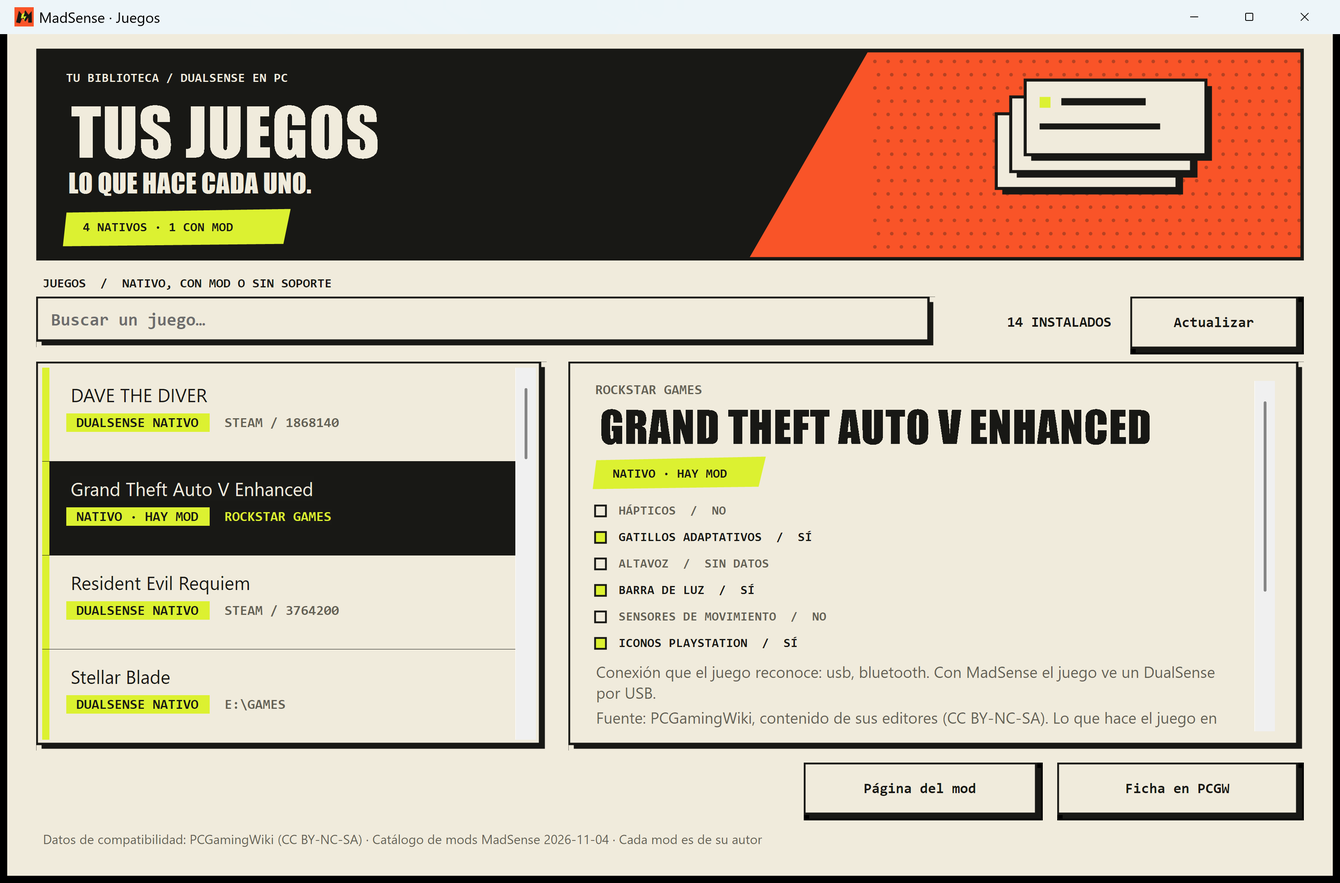
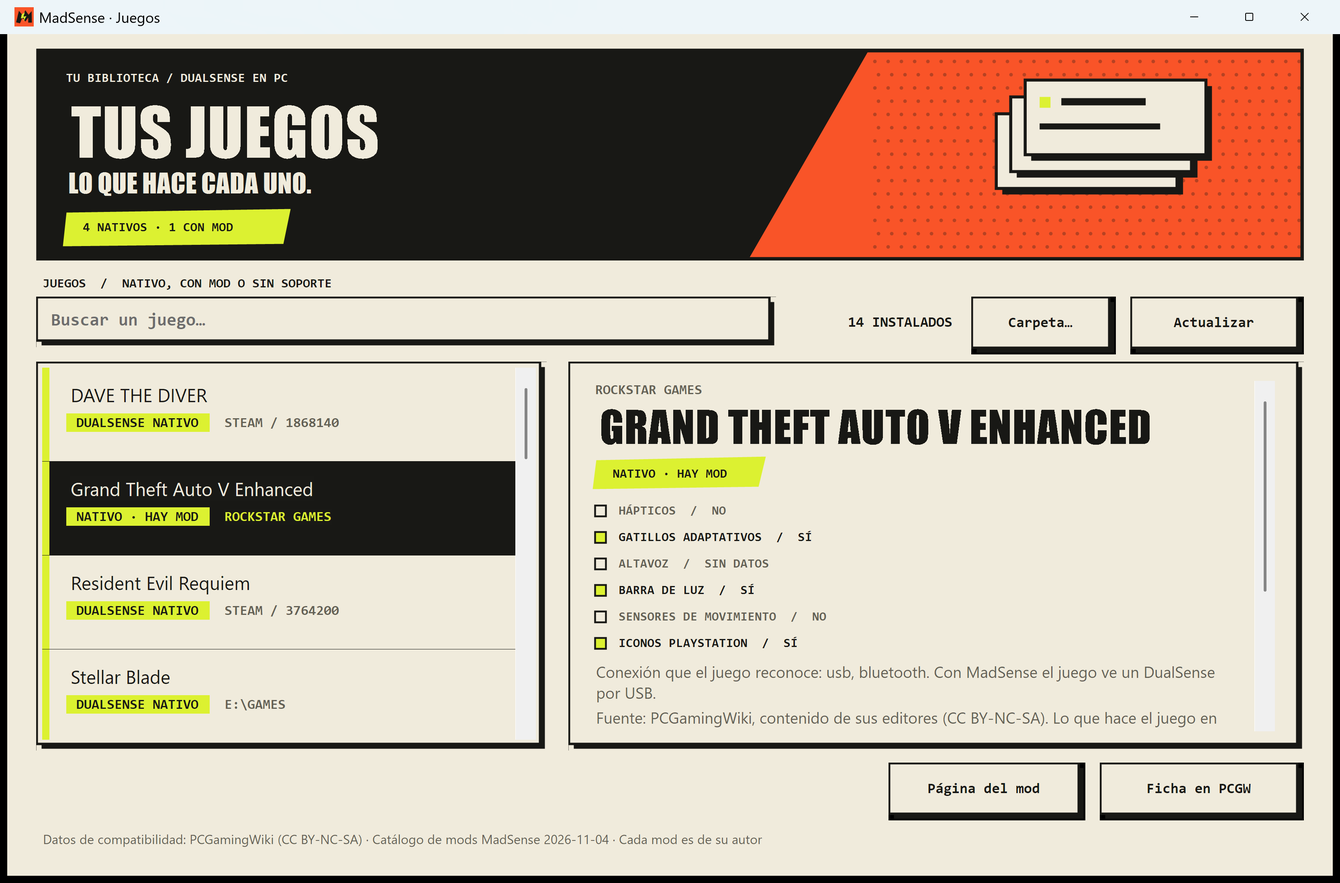
Games: folders anywhere, in three layers
Roots now cover a games folder at the root of each fixed drive and one
level below it, the profile's Games, and, since people keep games next to
the ones a launcher already put there, the parent and grandparent of every
known non-Steam game (never a drive root, Program Files or AppData).

The user can add any other folder from the games screen: a Folder… button
beside Refresh, with the same geometry, opens the picker; the folder is
kept in games-folders.json and read with every refresh, and a game from
such a folder offers Forget folder in its detail pane.

diff --git a/src/Games/GamesWindow.cs b/src/Games/GamesWindow.cs
@@ -17,7 +17,7 @@ internal sealed class GamesWindow : Form
     readonly CancellationTokenSource lifetime = new();
     readonly Dictionary<(string, float, FontStyle), Font> fonts = [];
     readonly BandPanel band = new() { Dock = DockStyle.Fill, Margin = Padding.Empty };
-    readonly MainWindow.RoundedButton refresh = new(), install = new() { Accent = true }, remove = new(), run = new(), page = new(), wiki = new();
+    readonly MainWindow.RoundedButton refresh = new(), folder = new(), install = new() { Accent = true }, remove = new(), run = new(), page = new(), wiki = new(), forget = new();
     readonly Label footer = new(), count = new(), empty = new(), section = new();
     readonly TextBox search = new();
     readonly EntryList entries = new();
@@ -25,7 +25,7 @@ internal sealed class GamesWindow : Form
     readonly Panel detailScroll = new() { Dock = DockStyle.Fill, AutoScroll = true };
     readonly FlowLayoutPanel detail = new() { Dock = DockStyle.Top, AutoSize = true, FlowDirection = FlowDirection.TopDown, WrapContents = false };
     readonly ProgressBar progress = new() { Dock = DockStyle.Fill, Visible = false, Style = ProgressBarStyle.Continuous };
-    readonly TableLayoutPanel actions = new() { Dock = DockStyle.Fill, ColumnCount = 5, RowCount = 1, Margin = Padding.Empty, Padding = new(0, 6, 0, 0) };
+    readonly TableLayoutPanel actions = new() { Dock = DockStyle.Fill, ColumnCount = 6, RowCount = 1, Margin = Padding.Empty, Padding = new(0, 6, 0, 0) };
     readonly Dictionary<string, WikiSupport?> support = new(StringComparer.Ordinal);
     readonly HashSet<string> pending = new(StringComparer.Ordinal);
     List<LibraryGame> games = [];
@@ -65,18 +65,19 @@ internal sealed class GamesWindow : Form
         // Section line, as in the main window: mono kicker with a slash.
         section.Dock = DockStyle.Fill; section.TextAlign = ContentAlignment.BottomLeft; section.ForeColor = Ink; section.Font = MakeFont("Consolas", 8, FontStyle.Bold); section.Padding = new(0, 0, 0, 5);
         root.Controls.Add(section, 0, 1);
-        // Toolbar: search field, count, refresh. Same 48 px row and button geometry as the main footer.
-        var toolbar = new TableLayoutPanel { Dock = DockStyle.Fill, ColumnCount = 3, RowCount = 1, Margin = Padding.Empty };
+        // Toolbar: search field, count, a folder of the user's own, refresh. Same 48 px row and button geometry as the main footer.
+        var toolbar = new TableLayoutPanel { Dock = DockStyle.Fill, ColumnCount = 4, RowCount = 1, Margin = Padding.Empty };
         toolbar.RowStyles.Add(new(SizeType.Percent, 100));
-        toolbar.ColumnStyles.Add(new(SizeType.Percent, 100)); toolbar.ColumnStyles.Add(new(SizeType.Absolute, 150)); toolbar.ColumnStyles.Add(new(SizeType.Absolute, 144));
+        toolbar.ColumnStyles.Add(new(SizeType.Percent, 100)); toolbar.ColumnStyles.Add(new(SizeType.Absolute, 150)); toolbar.ColumnStyles.Add(new(SizeType.Absolute, 132)); toolbar.ColumnStyles.Add(new(SizeType.Absolute, 144));
         var searchPlate = new PlatePanel { Dock = DockStyle.Fill, Margin = new(0, 0, 12, 6), Padding = new(10, 0, 10, 0) };
         search.Anchor = AnchorStyles.Left | AnchorStyles.Right; search.BackColor = Paper; search.ForeColor = Ink; search.BorderStyle = BorderStyle.None; search.Font = MakeFont("Consolas", 11, FontStyle.Bold);
         search.TextChanged += (_, _) => Populate();
         searchPlate.Controls.Add(search);
         searchPlate.Layout += (_, _) => { var area = searchPlate.DisplayRectangle; search.SetBounds(area.X, area.Y + Math.Max(0, (area.Height - search.Height) / 2), area.Width, search.Height); };
         count.Dock = DockStyle.Fill; count.TextAlign = ContentAlignment.MiddleRight; count.Font = MakeFont("Consolas", 9, FontStyle.Bold); count.Margin = new(0, 0, 12, 6);
+        folder.Dock = DockStyle.Fill; folder.Margin = new(0, 0, 12, 0); folder.Click += async (_, _) => await AddFolderAsync();
         refresh.Dock = DockStyle.Fill; refresh.Margin = Padding.Empty; refresh.Click += async (_, _) => await ScanAsync();
-        toolbar.Controls.Add(searchPlate, 0, 0); toolbar.Controls.Add(count, 1, 0); toolbar.Controls.Add(refresh, 2, 0);
+        toolbar.Controls.Add(searchPlate, 0, 0); toolbar.Controls.Add(count, 1, 0); toolbar.Controls.Add(folder, 2, 0); toolbar.Controls.Add(refresh, 3, 0);
         root.Controls.Add(toolbar, 0, 2);
         // Plates: list on the left, detail on the right, both with the hard shadow of the buttons.
         var content = new TableLayoutPanel { Dock = DockStyle.Fill, ColumnCount = 2, RowCount = 1, Margin = Padding.Empty };
@@ -93,14 +94,15 @@ internal sealed class GamesWindow : Form
         detailPlate.Controls.Add(detailScroll);
         content.Controls.Add(listPlate, 0, 0); content.Controls.Add(detailPlate, 1, 0); root.Controls.Add(content, 0, 3);
         actions.RowStyles.Add(new(SizeType.Percent, 100));
-        for (int i = 0; i < 5; i++) actions.ColumnStyles.Add(new(SizeType.Percent, 20));
-        foreach (var (button, column) in new[] { (install, 0), (run, 1), (remove, 2), (page, 3), (wiki, 4) })
+        for (int i = 0; i < 6; i++) actions.ColumnStyles.Add(new(SizeType.Percent, 100f / 6));
+        foreach (var (button, column) in new[] { (install, 0), (run, 1), (remove, 2), (forget, 3), (page, 4), (wiki, 5) })
         {
-            button.Dock = DockStyle.Fill; button.Margin = new(column == 0 ? 0 : 6, 0, column == 4 ? 0 : 6, 0); button.Visible = false; actions.Controls.Add(button, column, 0);
+            button.Dock = DockStyle.Fill; button.Margin = new(column == 0 ? 0 : 6, 0, column == 5 ? 0 : 6, 0); button.Visible = false; actions.Controls.Add(button, column, 0);
         }
         install.Click += async (_, _) => await InstallAsync();
         remove.Click += (_, _) => Remove();
         run.Click += (_, _) => RunHelper();
+        forget.Click += async (_, _) => await ForgetFolderAsync();
         page.Click += (_, _) => { if (pageUri is { } uri) OpenUrl(uri); };
         wiki.Click += (_, _) => { if (wikiUri is { } uri) OpenUrl(uri); };
         root.Controls.Add(actions, 0, 4);
@@ -138,7 +140,7 @@ internal sealed class GamesWindow : Form
         Text = "MadSense · " + L.Text("Games.Title");
         band.Kicker = L.Text("Games.Kicker"); band.Headline = L.Text("Games.Heading"); band.Tagline = L.Text("Games.Tagline");
         section.Text = L.Text("Games.Section");
-        refresh.Text = L.Text("Games.Refresh");
+        refresh.Text = L.Text("Games.Refresh"); folder.Text = L.Text("Games.AddFolder"); forget.Text = L.Text("Games.ForgetFolder");
         search.PlaceholderText = L.Text("Games.Search"); search.AccessibleName = L.Text("Games.Search"); entries.AccessibleName = L.Text("Games.Title");
         install.Text = L.Text("Games.Install"); remove.Text = L.Text("Games.Remove"); run.Text = L.Text("Games.RunNow");
         page.Text = L.Text("Games.ModPage"); wiki.Text = L.Text("Games.WikiPage");
@@ -248,7 +250,7 @@ internal sealed class GamesWindow : Form
         detail.Controls.Clear(); detailScroll.AutoScrollPosition = Point.Empty;
         detail.ResumeLayout();
         pageUri = wikiUri = null; selectedMod = null;
-        foreach (var button in new[] { install, run, remove, page, wiki }) button.Visible = false;
+        foreach (var button in new[] { install, run, remove, forget, page, wiki }) button.Visible = false;
     }
 
     Control Add(Control control) { detail.Controls.Add(control); FitDetail(); return control; }
@@ -317,6 +319,7 @@ internal sealed class GamesWindow : Form
         }
         else Body(L.Text(entry.Pending ? "Games.LoadingWiki" : service.Wiki.Blocked ? "Games.WikiBlocked" : "Games.NoWikiData"));
         if (standing.Status == GameStatus.Native) Body(L.Text(standing.Mods.Count > 0 ? "Games.NativeModHint" : "Games.NativeHint"), muted: false);
+        if (service.IsCustomFolder(game.Source)) { Body(L.Text("Games.CustomFolderHint", game.Source)); forget.Visible = true; }
         foreach (var mod in standing.Mods)
         {
             var installed = service.Installer.Find(mod.Id, game.Key);
@@ -351,6 +354,28 @@ internal sealed class GamesWindow : Form
     }
 
     // ── actions ───────────────────────────────────────────────────────────────────────────────
+    /// <summary>Lets the user point at a folder where games live; it is remembered and read with every refresh.</summary>
+    async Task AddFolderAsync()
+    {
+        if (scanning) return;
+        string path;
+        using (var dialog = new FolderBrowserDialog { Description = L.Text("Games.AddFolderTitle"), UseDescriptionForTitle = true, ShowNewFolderButton = false })
+        {
+            if (dialog.ShowDialog(this) != DialogResult.OK || string.IsNullOrWhiteSpace(dialog.SelectedPath)) return;
+            path = dialog.SelectedPath;
+        }
+        if (!service.AddFolder(path)) { footer.Text = L.Text("Games.FolderKnown", path); return; }
+        footer.Text = L.Text("Games.FolderAdded", path);
+        await ScanAsync();
+    }
+
+    async Task ForgetFolderAsync()
+    {
+        if (scanning || entries.SelectedItem is not Entry entry || !service.RemoveFolder(entry.Game.Source)) return;
+        footer.Text = L.Text("Games.FolderForgotten", entry.Game.Source);
+        await ScanAsync();
+    }
+
     async Task InstallAsync()
     {
         if (installing || entries.SelectedItem is not Entry entry || selectedMod is not { } mod) return;

diff --git a/src/Games/GameLibrary.cs b/src/Games/GameLibrary.cs
@@ -22,7 +22,7 @@ static class GameLibrary
     static readonly string[] SteamUtilities = ["228980", "1812620", "250820", "1070560", "431960", "993090"];
     static readonly string[] Publishers = ["Electronic Arts", "Rockstar Games", "Blizzard Entertainment", "Riot Games", "Bethesda", "Ubisoft", "CD PROJEKT", "Square Enix"];
 
-    public static IReadOnlyList<LibraryGame> Scan(CancellationToken cancellationToken = default)
+    public static IReadOnlyList<LibraryGame> Scan(CancellationToken cancellationToken = default, IReadOnlyList<string>? folders = null)
     {
         var games = new List<LibraryGame>();
         var warnings = new List<string>();
@@ -39,7 +39,7 @@ static class GameLibrary
         Try("Ubisoft", Ubisoft);
         Try("Xbox", Xbox);
         Try("Uninstall", () => Uninstall(games));
-        Try("Folders", () => Folders(games));
+        Try("Folders", () => Folders(FolderRoots(games, folders ?? []), games));
         Warnings = warnings;
         return games
             .Where(g => Directory.Exists(g.InstallDir))
@@ -150,18 +150,51 @@ static class GameLibrary
     // ── plain folders: games that no launcher recorded (offline installers, itch, repacks) ──────
     static readonly string[] FolderNames = ["Games", "Juegos", "Jogos", "Spiele", "Jeux", "Giochi", "Gry", "GOG Games"];
     static readonly string[] Containers = ["Epic Games", "GOG Games", "Ubisoft", "Ubisoft Game Launcher", "Rockstar Games", "EA Games", "Origin Games", "Battle.net", "Riot Games", "Amazon Games", "itch"];
-    static readonly string[] SkipFolders = ["Steam", "SteamLibrary", "steamapps", "XboxGames", "WindowsApps", "_CommonRedist", "_Redist", "Redist", "Engine", "DirectX", "Support", "dotnet", "vcredist", "Tools", "Saves"];
+    static readonly string[] SkipFolders = ["Steam", "SteamLibrary", "steamapps", "XboxGames", "WindowsApps", "Launcher", "_CommonRedist", "_Redist", "Redist", "Engine", "DirectX", "Support", "dotnet", "vcredist", "Tools", "Saves"];
     static readonly string[] UtilityExes = ["unins", "setup", "install", "redist", "vc_", "dxsetup", "dxweb", "crash", "report", "sfv", "unrar", "7z", "dotnet", "python", "java", "cef", "subprocess", "eac", "anticheat", "battleye", "uploader", "handler", "updater", "helper"];
 
-    /// <summary>Folders worth a look: a games folder at the root of each fixed drive, and one under the profile.</summary>
-    static IEnumerable<string> FolderRoots()
+    static readonly string[] SystemFolders = ["Windows", "Program Files", "Program Files (x86)", "ProgramData", "AppData", "$Recycle.Bin", "System Volume Information", "Recovery", "PerfLogs", "Intermediate", "Saved"];
+    static readonly EnumerationOptions Listing = new() { IgnoreInaccessible = true, AttributesToSkip = FileAttributes.Hidden | FileAttributes.System | FileAttributes.ReparsePoint };
+
+    /// <summary>
+    /// Folders worth a look, cheapest first: the ones the user added; a games folder at the root
+    /// of each fixed drive and one level below it (D:\Alex\Juegos); the profile's Games; and, since
+    /// people keep games next to the ones a launcher already put there, the parent and grandparent
+    /// of every known non-Steam game, never a drive root or a system folder.
+    /// </summary>
+    static IEnumerable<string> FolderRoots(IReadOnlyList<LibraryGame> known, IEnumerable<string> extra) =>
+        FolderRoots(known, extra, DriveInfo.GetDrives().Where(d => d.DriveType == DriveType.Fixed && d.IsReady).Select(d => d.RootDirectory.FullName));
+
+    internal static IEnumerable<string> FolderRoots(IReadOnlyList<LibraryGame> known, IEnumerable<string> extra, IEnumerable<string> driveRoots)
     {
-        foreach (var drive in DriveInfo.GetDrives().Where(d => d.DriveType == DriveType.Fixed && d.IsReady))
-            foreach (var name in FolderNames) yield return Path.Combine(drive.RootDirectory.FullName, name);
+        foreach (var folder in extra) yield return folder;
+        foreach (var drive in driveRoots)
+        {
+            foreach (var name in FolderNames) yield return Path.Combine(drive, name);
+            List<string> tops;
+            try { tops = Directory.EnumerateDirectories(drive, "*", Listing).ToList(); }
+            catch (Exception e) when (e is IOException or UnauthorizedAccessException) { continue; }
+            foreach (var top in tops)
+                if (!SystemFolders.Contains(Path.GetFileName(top), StringComparer.OrdinalIgnoreCase))
+                    foreach (var name in FolderNames) yield return Path.Combine(top, name);
+        }
         yield return Path.Combine(Environment.GetFolderPath(Environment.SpecialFolder.UserProfile), "Games");
+        foreach (var game in known)
+        {
+            if (game.Source is "Steam" or "Xbox") continue;
+            var parent = Path.GetDirectoryName(game.InstallDir.TrimEnd('\\'));
+            for (int level = 0; level < 2 && parent is not null && !IsDriveRoot(parent) && !IsSystemPath(parent); level++)
+            {
+                yield return parent;
+                parent = Path.GetDirectoryName(parent);
+            }
+        }
     }
 
-    static IEnumerable<LibraryGame> Folders(List<LibraryGame> known) => Folders(FolderRoots(), known);
+    static bool IsDriveRoot(string path) => string.Equals(Path.GetPathRoot(path)?.TrimEnd('\\'), path.TrimEnd('\\'), StringComparison.OrdinalIgnoreCase);
+
+    static bool IsSystemPath(string path) => path.Split('\\', StringSplitOptions.RemoveEmptyEntries).Any(s => SystemFolders.Contains(s, StringComparer.OrdinalIgnoreCase));
+
 
     /// <summary>
     /// Every direct subfolder of a games folder that holds a real executable within four levels is
@@ -171,7 +204,7 @@ static class GameLibrary
     /// </summary>
     internal static IEnumerable<LibraryGame> Folders(IEnumerable<string> roots, IReadOnlyList<LibraryGame> known)
     {
-        var options = new EnumerationOptions { IgnoreInaccessible = true, AttributesToSkip = FileAttributes.Hidden | FileAttributes.System | FileAttributes.ReparsePoint };
+        var options = Listing;
         foreach (var root in roots.Distinct(StringComparer.OrdinalIgnoreCase))
         {
             if (!Directory.Exists(root)) continue;

diff --git a/tests/MadSense.Installer.Tests/GameFolderRootsTests.cs b/tests/MadSense.Installer.Tests/GameFolderRootsTests.cs
@@ -1,0 +1,74 @@
+using MadSense.Games;
+
+namespace MadSense.Installer.Tests;
+
+[TestFixture]
+public class GameFolderRootsTests
+{
+    string root = "";
+
+    [SetUp]
+    public void SetUp() { root = Path.Combine(Path.GetTempPath(), "madsense-roots-" + Guid.NewGuid().ToString("N")); Directory.CreateDirectory(root); }
+
+    [TearDown]
+    public void TearDown() { try { Directory.Delete(root, true); } catch (IOException) { } catch (UnauthorizedAccessException) { } }
+
+    static LibraryGame Known(string source, string dir) => new("k:" + dir, Path.GetFileName(dir), source, null, dir, null);
+
+    [Test]
+    public void RootsCoverTheDriveRootOneLevelBelowAndTheUsersOwnFolders()
+    {
+        Directory.CreateDirectory(Path.Combine(root, "Alex"));
+        Directory.CreateDirectory(Path.Combine(root, "Windows"));
+        var roots = GameLibrary.FolderRoots([], [@"D:\Mis cosas\juegos"], [root]).ToList();
+        Assert.Multiple(() =>
+        {
+            Assert.That(roots[0], Is.EqualTo(@"D:\Mis cosas\juegos"), "the user's folders come first");
+            Assert.That(roots, Does.Contain(Path.Combine(root, "Games")));
+            Assert.That(roots, Does.Contain(Path.Combine(root, "Juegos")));
+            Assert.That(roots, Does.Contain(Path.Combine(root, "Alex", "Juegos")), "one level below the drive root");
+            Assert.That(roots.Any(r => r.StartsWith(Path.Combine(root, "Windows"), StringComparison.OrdinalIgnoreCase)), Is.False, "system folders are never looked into");
+        });
+    }
+
+    [Test]
+    public void WhereALauncherPutAGameItsParentAndGrandparentAreLookedAt()
+    {
+        // Paths need not exist: only the shape matters here (the temp folder itself sits under AppData, which is skipped on purpose).
+        const string epic = @"D:\Ocio\Epic Games\Alan Wake 2", steam = @"D:\SteamLibrary\steamapps\common\Portal", program = @"C:\Program Files\Rockstar Games\Grand Theft Auto V";
+        var roots = GameLibrary.FolderRoots([Known("Epic Games", epic), Known("Steam", steam), Known("Rockstar Games", program), Known("GOG", @"C:\Users\Alex\AppData\Local\Oddity")], [], []).ToList();
+        Assert.Multiple(() =>
+        {
+            Assert.That(roots, Does.Contain(@"D:\Ocio\Epic Games"));
+            Assert.That(roots, Does.Contain(@"D:\Ocio"));
+            Assert.That(roots, Does.Not.Contain(@"D:\"), "never a drive root");
+            Assert.That(roots.Any(r => r.Contains("AppData", StringComparison.OrdinalIgnoreCase)), Is.False, "never AppData");
+            Assert.That(roots.Any(r => r.Contains("steamapps", StringComparison.OrdinalIgnoreCase)), Is.False, "Steam libraries are the Steam scanner's");
+            Assert.That(roots.Any(r => r.StartsWith(@"C:\Program Files", StringComparison.OrdinalIgnoreCase)), Is.False, "never Program Files");
+        });
+    }
+
+    [Test]
+    public void AGameInAFolderTheUserAddedIsFoundAndItsFolderCanBeForgotten()
+    {
+        var mine = Path.Combine(root, "Mis juegos");
+        var exe = Path.Combine(mine, "Hades II", "Hades2.exe");
+        Directory.CreateDirectory(Path.GetDirectoryName(exe)!);
+        File.WriteAllBytes(exe, new byte[64]);
+        var service = new GamesService(Path.Combine(root, "data"));
+        try
+        {
+            Assert.That(service.AddFolder(mine), Is.True);
+            Assert.That(service.AddFolder(mine + @"\"), Is.False, "same folder, trailing slash");
+            Assert.That(service.IsCustomFolder(mine), Is.True);
+            var again = new GamesService(Path.Combine(root, "data"));
+            Assert.That(again.CustomFolders, Is.EqualTo(new[] { mine }), "remembered across restarts");
+            again.Dispose();
+            var found = GameLibrary.Folders(GameLibrary.FolderRoots([], service.CustomFolders, []), []).ToList();
+            Assert.That(found.Select(g => (g.Name, g.Source)), Is.EqualTo(new[] { ("Hades II", mine) }));
+            Assert.That(service.RemoveFolder(mine), Is.True);
+            Assert.That(service.CustomFolders, Is.Empty);
+        }
+        finally { service.Dispose(); }
+    }
+}

diff --git a/src/Games/GamesService.cs b/src/Games/GamesService.cs
@@ -11,6 +11,8 @@ sealed class GamesService : IDisposable
 {
     readonly object gate = new();
     readonly Lazy<PcGamingWikiClient> wiki;
+    readonly string foldersPath;
+    List<string>? folders;
     IReadOnlyList<LibraryGame> library = [];
     Task<IReadOnlyList<LibraryGame>>? scan;
 
@@ -18,6 +20,7 @@ sealed class GamesService : IDisposable
     {
         DataRoot = dataRoot ?? DefaultDataRoot;
         wiki = new(() => new PcGamingWikiClient(Path.Combine(DataRoot, "cache", "pcgw.json")));
+        foldersPath = Path.Combine(DataRoot, "games-folders.json");
         Installer = new ModInstaller(Path.Combine(DataRoot, "mods"));
         Runner = new ModRunner(Installer, () => Library);
     }
@@ -35,6 +38,51 @@ sealed class GamesService : IDisposable
     public DateTimeOffset? Scanned { get; private set; }
     public event Action? LibraryChanged;
 
+    /// <summary>Folders the user added by hand; read with every scan, kept in a small JSON file.</summary>
+    public IReadOnlyList<string> CustomFolders { get { lock (gate) return Folders().ToList(); } }
+
+    public bool IsCustomFolder(string path) { lock (gate) return Folders().Any(f => Same(f, path)); }
+
+    /// <summary>Remembers <paramref name="path"/>; false when it was already there.</summary>
+    public bool AddFolder(string path)
+    {
+        var full = Path.GetFullPath(path).TrimEnd('\\');
+        lock (gate)
+        {
+            var list = Folders();
+            if (list.Any(f => Same(f, full))) return false;
+            list.Add(full); SaveFolders(list);
+        }
+        return true;
+    }
+
+    public bool RemoveFolder(string path)
+    {
+        lock (gate)
+        {
+            var list = Folders();
+            int removed = list.RemoveAll(f => Same(f, path));
+            if (removed > 0) SaveFolders(list);
+            return removed > 0;
+        }
+    }
+
+    static bool Same(string a, string b) => string.Equals(a.TrimEnd('\\'), b.TrimEnd('\\'), StringComparison.OrdinalIgnoreCase);
+
+    List<string> Folders()
+    {
+        if (folders is not null) return folders;
+        try { folders = File.Exists(foldersPath) ? System.Text.Json.JsonSerializer.Deserialize<List<string>>(File.ReadAllText(foldersPath)) ?? [] : []; }
+        catch (Exception e) when (e is IOException or UnauthorizedAccessException or System.Text.Json.JsonException) { folders = []; }
+        return folders;
+    }
+
+    void SaveFolders(List<string> list)
+    {
+        try { Directory.CreateDirectory(DataRoot); File.WriteAllText(foldersPath, System.Text.Json.JsonSerializer.Serialize(list)); }
+        catch (Exception e) when (e is IOException or UnauthorizedAccessException) { }
+    }
+
     /// <summary>Reads every launcher's records; concurrent callers share one scan.</summary>
     public Task<IReadOnlyList<LibraryGame>> ScanAsync(CancellationToken cancellationToken = default)
     {
@@ -43,7 +91,7 @@ sealed class GamesService : IDisposable
             if (scan is { IsCompleted: false }) return scan;
             scan = Task.Run(() =>
             {
-                var games = GameLibrary.Scan(cancellationToken);
+                var games = GameLibrary.Scan(cancellationToken, CustomFolders);
                 lock (gate) { library = games; Scanned = DateTimeOffset.Now; }
                 LibraryChanged?.Invoke();
                 return games;

diff --git a/docs/games-and-mods-plan.md b/docs/games-and-mods-plan.md
@@ -19,7 +19,7 @@ El detalle muestra las seis funciones (hápticos, gatillos, altavoz, barra de lu
 
 ## Biblioteca de juegos
 
-`GameLibrary` lee Steam (manifiestos `appmanifest_*.acf`, todas las bibliotecas de `libraryfolders.vdf`), Epic (`%ProgramData%\Epic\EpicGamesLauncher\Data\Manifests\*.item`), GOG Galaxy (registro `GOG.com\Games`), Ubisoft Connect (registro `Ubisoft\Launcher\Installs`), Xbox (`<unidad>:\XboxGames\*\Content\MicrosoftGame.config`) y la lista de desinstalación de Windows para los editores que no dejan otro rastro (EA, Rockstar, Blizzard, Riot, Bethesda…). Después mira las carpetas sueltas: `Games`, `Juegos`, `Jogos`, `Spiele`, `Jeux`, `Giochi`, `Gry` o `GOG Games` en la raíz de cada disco fijo y `Games` en el perfil; cada subcarpeta con un ejecutable real (no desinstalador, redist ni crash handler) hasta cuatro niveles es un juego, con el nombre de la carpeta limpio de etiquetas y versión. Solo lee listados de directorio, acotados a 160 carpetas por candidato, y nunca cuenta dos veces lo que un launcher ya registró. Cada fuente se lee aislada; una ilegible no esconde las demás. Enfoque tomado del escáner de Zerk Sense 5 (MIT).
+`GameLibrary` lee Steam (manifiestos `appmanifest_*.acf`, todas las bibliotecas de `libraryfolders.vdf`), Epic (`%ProgramData%\Epic\EpicGamesLauncher\Data\Manifests\*.item`), GOG Galaxy (registro `GOG.com\Games`), Ubisoft Connect (registro `Ubisoft\Launcher\Installs`), Xbox (`<unidad>:\XboxGames\*\Content\MicrosoftGame.config`) y la lista de desinstalación de Windows para los editores que no dejan otro rastro (EA, Rockstar, Blizzard, Riot, Bethesda…). Después mira las carpetas sueltas: `Games`, `Juegos`, `Jogos`, `Spiele`, `Jeux`, `Giochi`, `Gry` o `GOG Games` en la raíz de cada disco fijo y un nivel por debajo (`D:AlexJuegos`), `Games` en el perfil, la carpeta madre y la abuela de cada juego que un launcher ya registró (nunca una raíz de disco, Program Files ni AppData) y las carpetas que el usuario añade con el botón Carpeta… de la pantalla, guardadas en `%LOCALAPPDATA%MadSensegames-folders.json` y olvidadas desde la ficha del juego; cada subcarpeta con un ejecutable real (no desinstalador, redist ni crash handler) hasta cuatro niveles es un juego, con el nombre de la carpeta limpio de etiquetas y versión. Solo lee listados de directorio, acotados a 160 carpetas por candidato, y nunca cuenta dos veces lo que un launcher ya registró. Cada fuente se lee aislada; una ilegible no esconde las demás. Enfoque tomado del escáner de Zerk Sense 5 (MIT).
 
 ## Receptor de mods (protocolo DSX)
 

diff --git a/README.md b/README.md
@@ -10,7 +10,7 @@ Abre MadSense, enciende tu DualSense y abre el juego. La app espera al mando, co
 
 Rama `feature/games-and-mods`; detalle en `docs/games-and-mods-plan.md`.
 
-- **JUEGOS**, una pantalla nueva desde el pie de la ventana y la bandeja: todos los juegos instalados (Steam, Epic, GOG, Ubisoft Connect, Xbox, los que dejan rastro en Windows y los que viven sueltos en una carpeta `Games` o `Juegos` en la raíz de un disco) con lo que cada uno hace con el DualSense por sí mismo, según PCGamingWiki, y el mod comunitario que existe cuando no es nativo. Si MadSense puede instalarlo, un botón: descarga el release del autor desde GitHub, lo verifica (tamaño y SHA-256) y lo deja listo; los helpers se arrancan solos con el juego y se cierran al salir. Los mods tras un inicio de sesión (Nexus) o con cargador externo se muestran con su página y sus pasos.
+- **JUEGOS**, una pantalla nueva desde el pie de la ventana y la bandeja: todos los juegos instalados (Steam, Epic, GOG, Ubisoft Connect, Xbox, los que dejan rastro en Windows y los que viven sueltos: en una carpeta `Games` o `Juegos` de un disco, al lado de lo que ya instaló un launcher, o en la carpeta que tú añadas con un botón) con lo que cada uno hace con el DualSense por sí mismo, según PCGamingWiki, y el mod comunitario que existe cuando no es nativo. Si MadSense puede instalarlo, un botón: descarga el release del autor desde GitHub, lo verifica (tamaño y SHA-256) y lo deja listo; los helpers se arrancan solos con el juego y se cierran al salir. Los mods tras un inicio de sesión (Nexus) o con cargador externo se muestran con su página y sus pasos.
 - **Mods DSX sin DSX.** MadSense escucha el protocolo UDP que los mods de la comunidad usan con DSX (puerto 6969) y aplica sus gatillos, barra de luz y LED al mando, con prioridad sobre el juego, en modo DualSense y en modo Xbox. La lámpara MOD se enciende mientras un mod envía efectos.
 
 ## Novedades de 0.4.9
